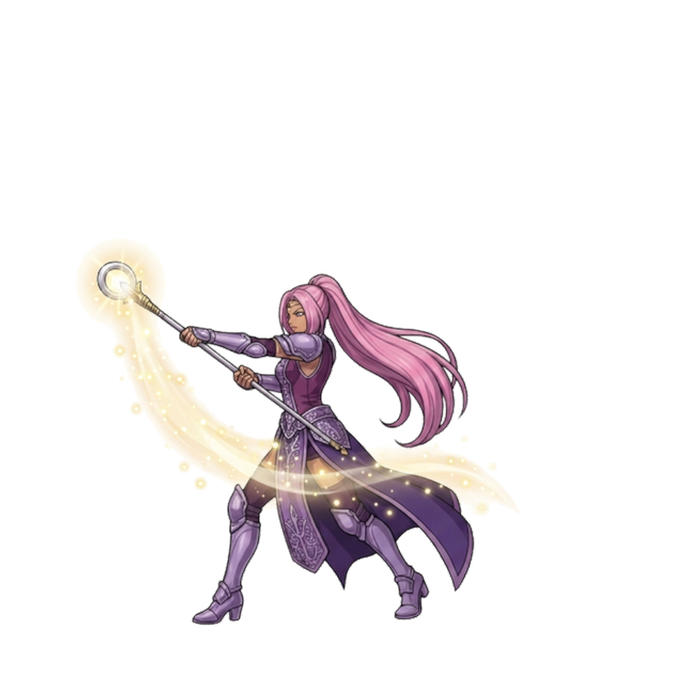
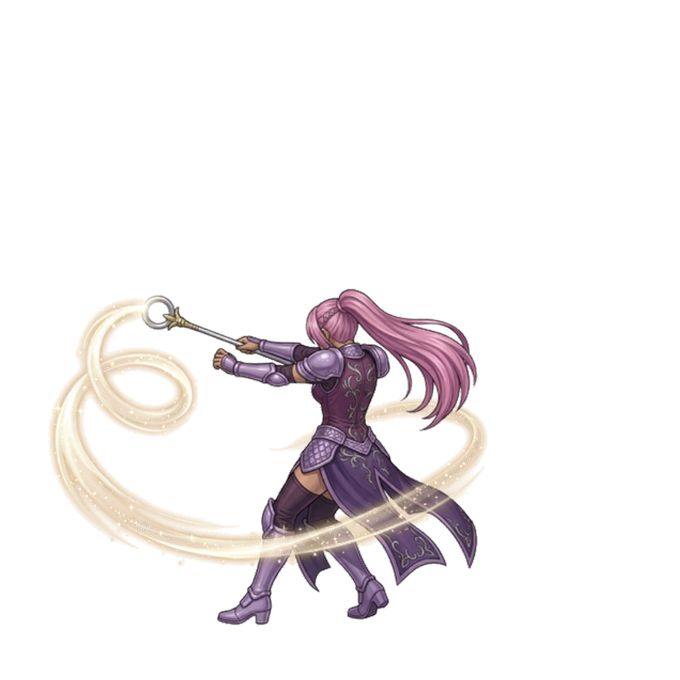
Rebuild Marin (#010) Frames 4-6 directly from DOS f6 so right arm leads the wand with left arm assisting underneath

Changed region(s): [[0.0618, 0.3397, 0.7412, 0.9265]]

diff --git a/src/ui/vfxLab.ts b/src/ui/vfxLab.ts
@@ -169,7 +169,7 @@ export async function loadUnitSlotIntoVfxAssets(
   side: 'player' | 'enemy',
   entry: VfxManifestUnitEntry
 ): Promise<void> {
-  const cb = '?v=19';
+  const cb = '?v=20';
   const omniCount = Math.max(10, entry.omniFrameCount ?? 10);
   const omniIndices = Array.from({ length: omniCount }, (_, i) => i);
   const [nb6, omni, cutIn, cIdle, cAtk] = await Promise.all([
@@ -200,7 +200,7 @@ export async function loadUnitSlotIntoVfxAssets(
 }
 
 export async function ensureVfxLabAssets(assets: AssetManager): Promise<VfxLabAssets> {
-  const cacheBust = '?v=19';
+  const cacheBust = '?v=20';
   // Always refresh manifest so newly generated batch units appear immediately
   try {
     const resp = await fetch(`assets/vfx_lab/units_manifest.json?t=${Date.now()}`);
